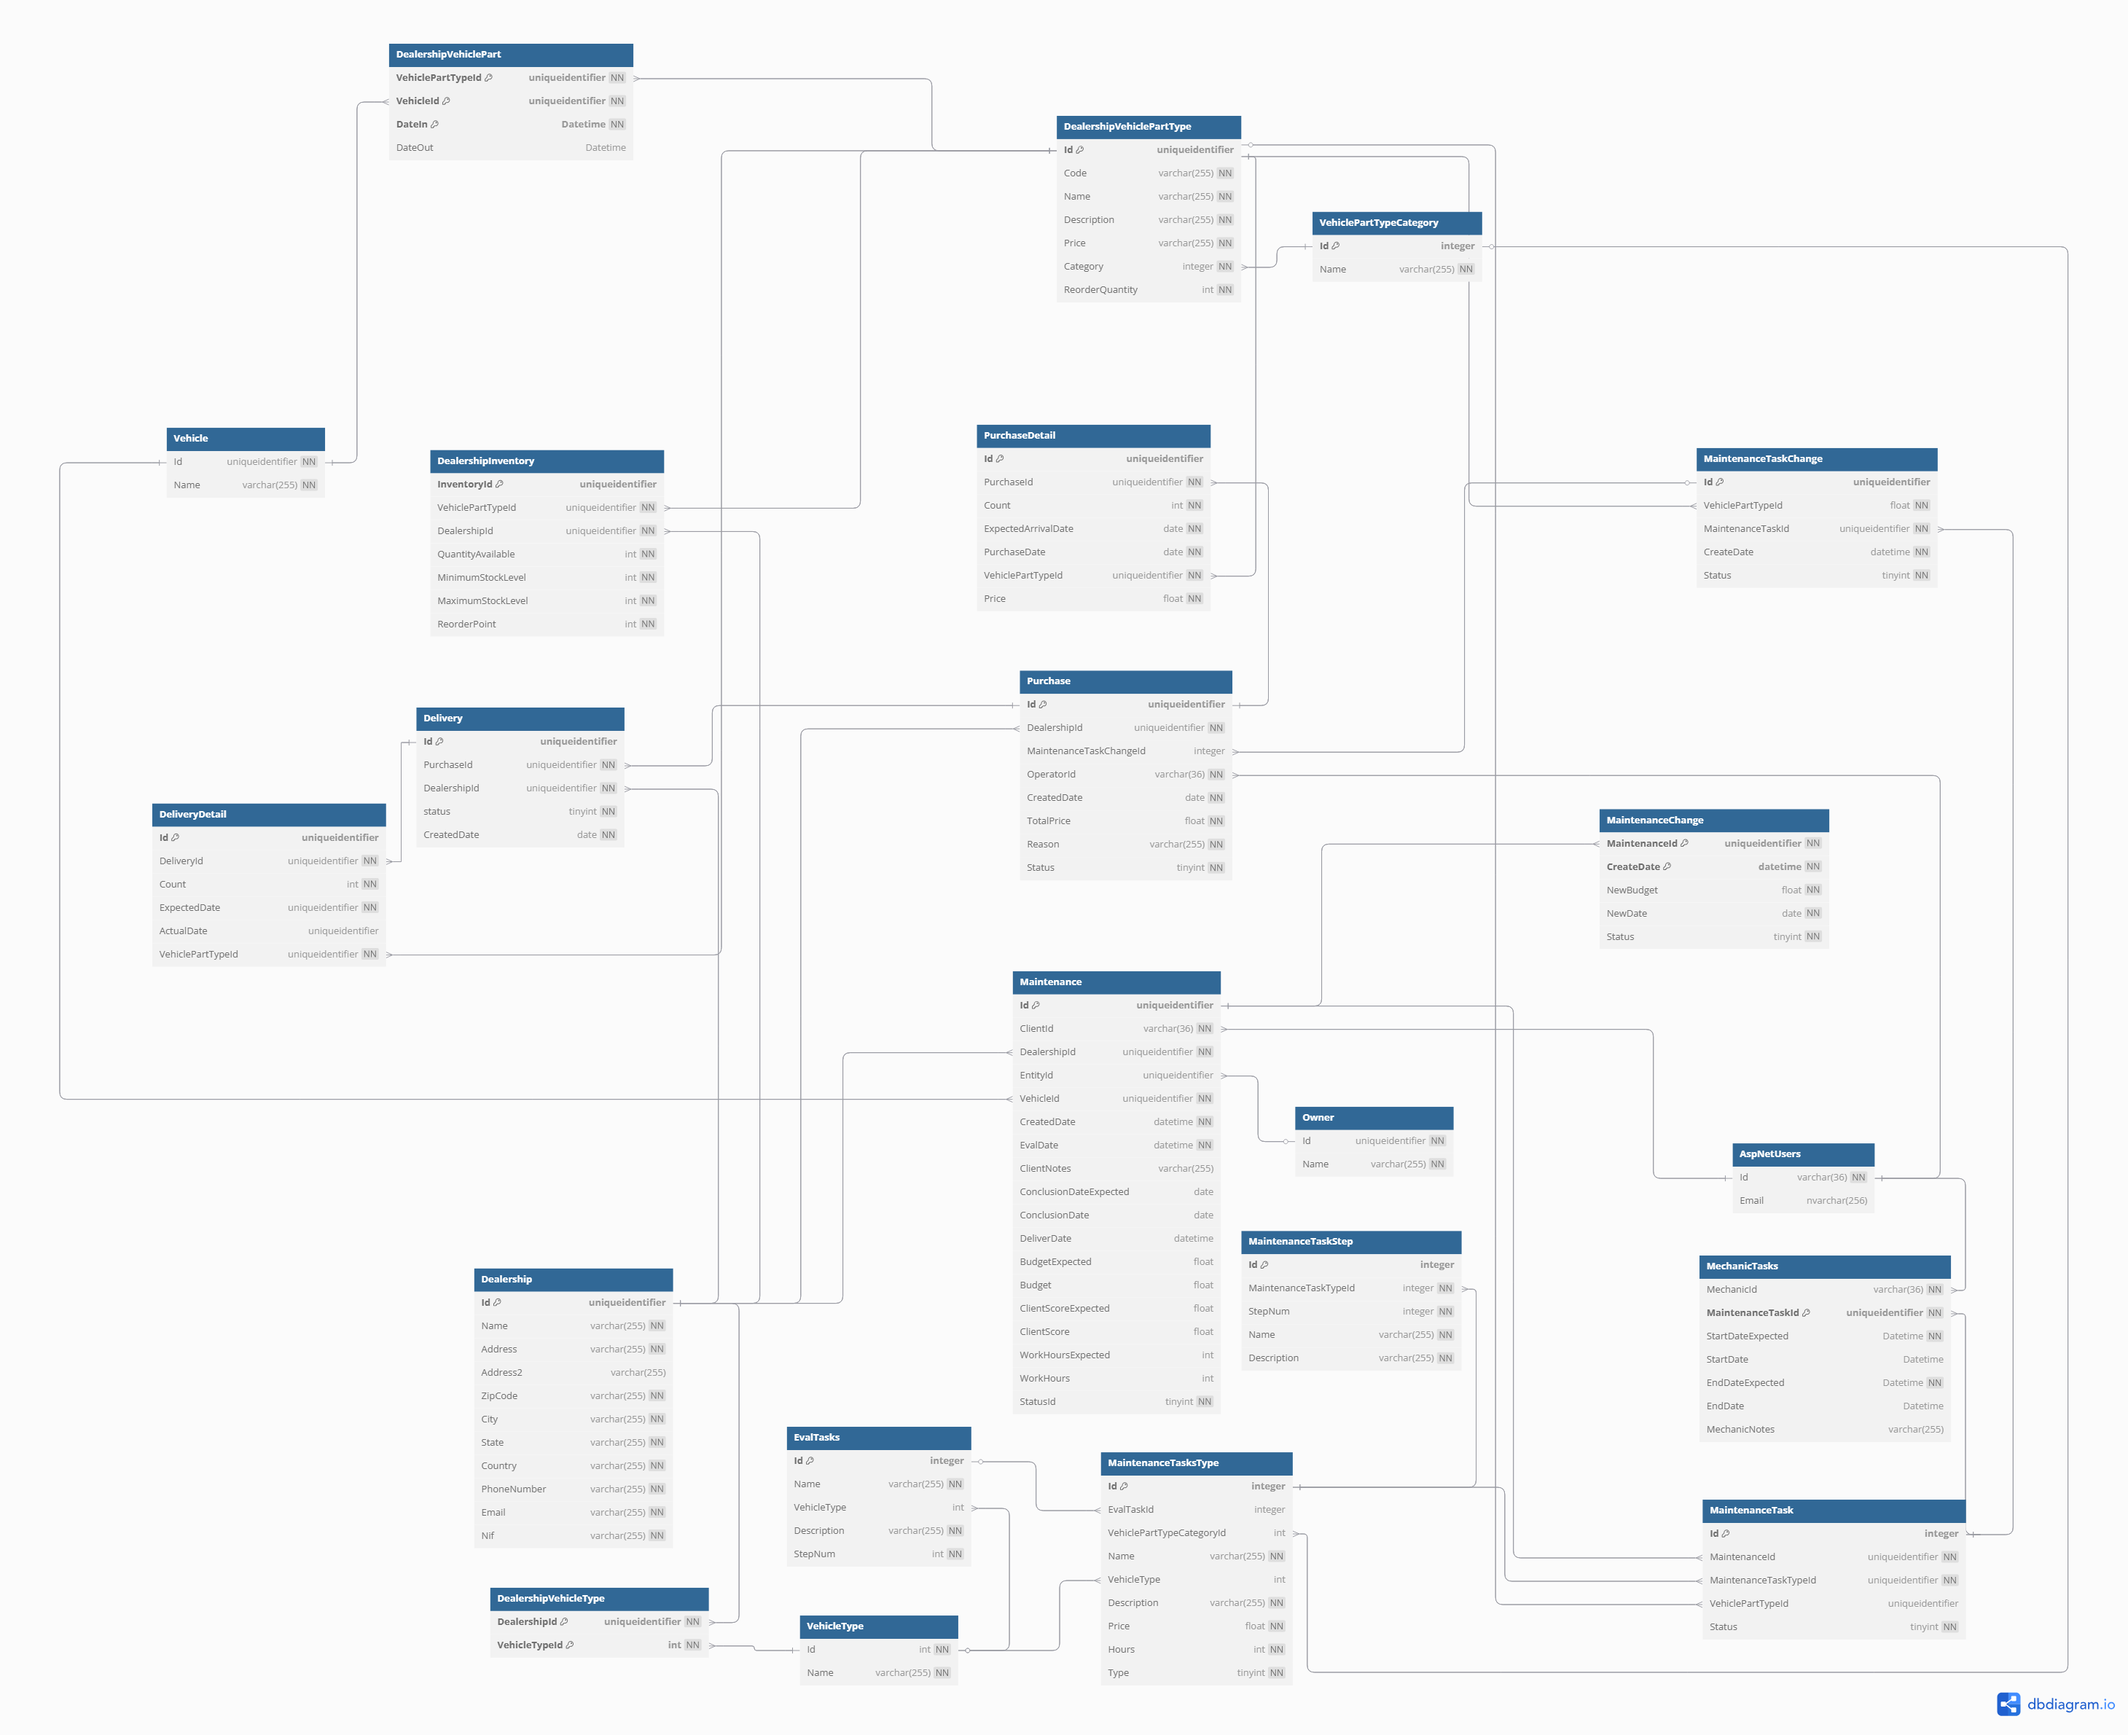
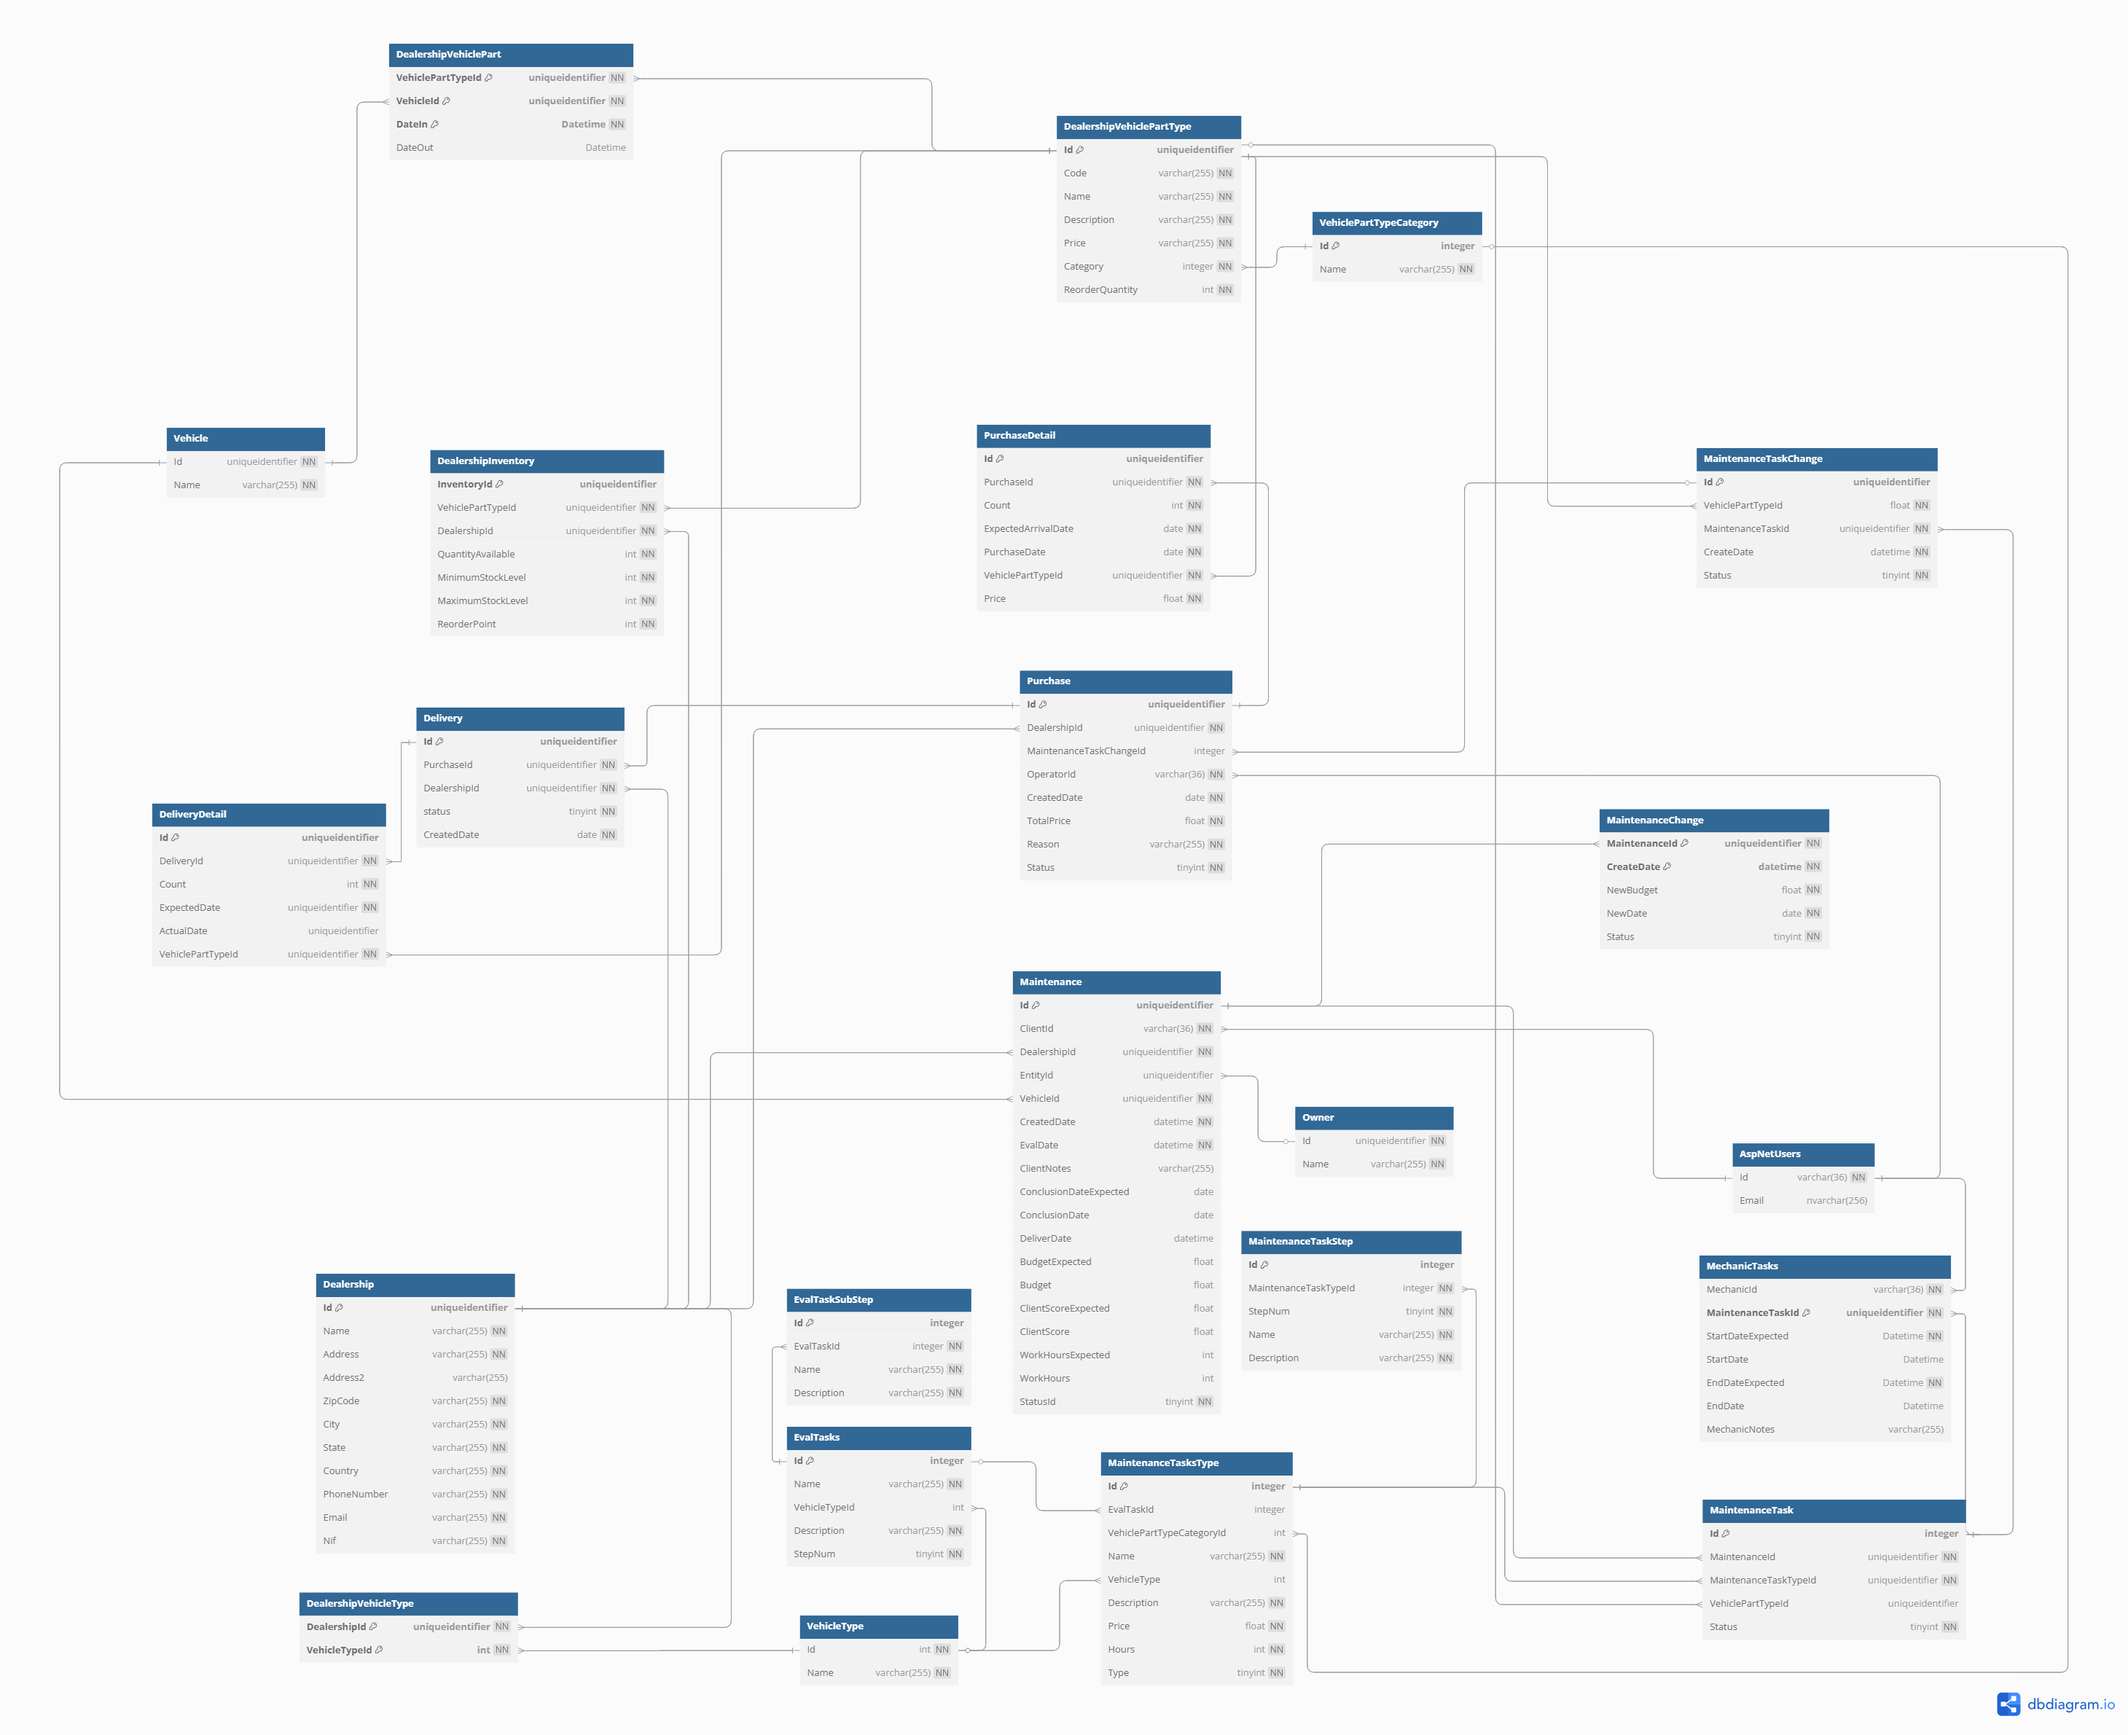
finish some tasks

Changed region(s): [[0.1247, 0.7148, 0.3428, 0.9635], [0.3428, 0.7148, 0.4675, 0.8081]]

diff --git a/TODO.md b/TODO.md
@@ -10,13 +10,18 @@ Fazer mais uma tabela para o histórico do preço das peças em inventário de c
 
 
 ----------------------------------- + ---------------------------------------
-
+ 
 # Todo - Semana 10/03-16/03
 
-Alterar página inicial do chefe de oficina e do rececionista para ser como a criação de horários do paco2
-- Do the same to the recepcionist DONE
 
 Implementar finalização dos detalhes da manutenção
+
+Fazer avaliação do veículo
+- Adicionar search de partes por categoria DONE
+- Apenas meter vehicle part type select quando a task tem vehicletypepart DONE
+- Enviar tarefas para criar para o backend DONE
+- Adicionar parte à tarefa para o backend DONE
+- Ficha tecnica do veículo dinamica DONE
 
 
 # Todo - Semana 17/03-23/03
@@ -37,8 +42,7 @@ Meter modal full screen sem diminuires
 resolver layout
 resolver log out
 Change maintenance task type hours para float em vez de int
-Eval task vehicle type navigation fix
-
+DealershipVehiclePartTypes naviagtion category
 
 
 # Caso De uso 
